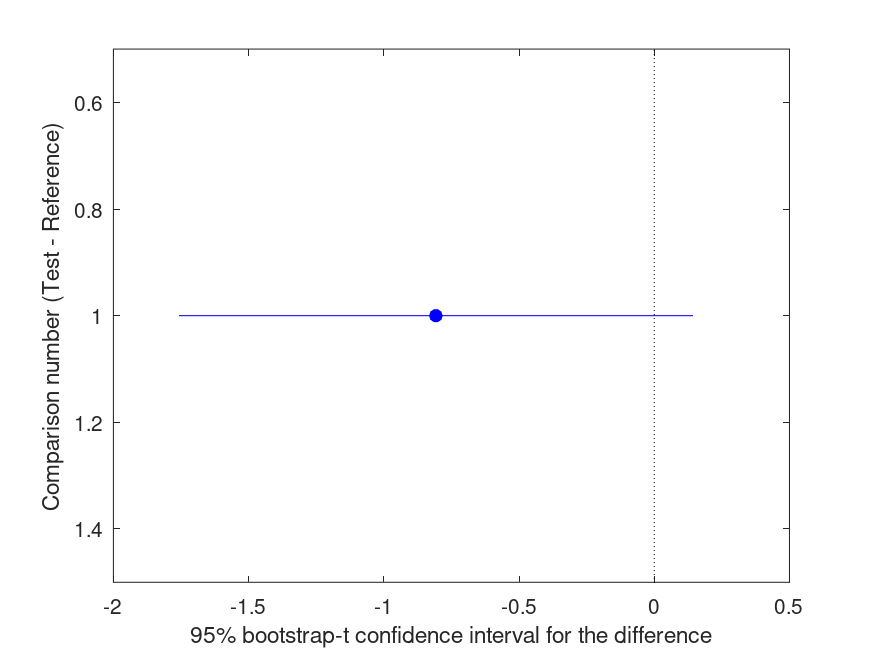
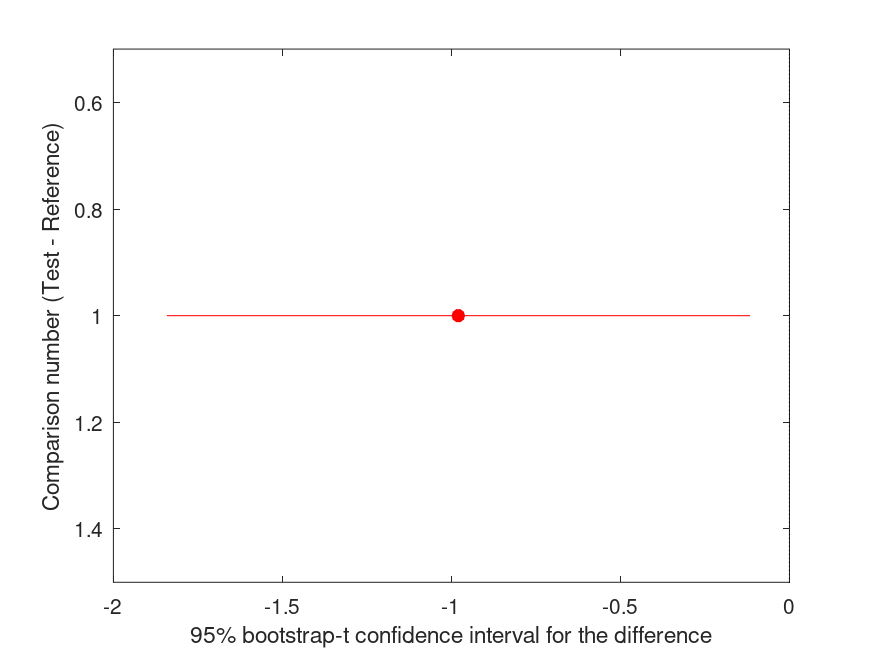
update online manual

diff --git a/docs/function/bootint.html b/docs/function/bootint.html
@@ -20,19 +20,20 @@
 <div id="doccontent">
 
 <h2>bootint</h2>
-<pre> Computes simple percentile confidence interval(s) directly from a vector (or
- row-major matrix) of bootstrap statistics.
+<pre> Computes percentile confidence interval(s) directly from a vector (or row-
+ major matrix) of bootstrap statistics.
 
  -- Function File: CI = bootint (BOOTSTAT)
  -- Function File: CI = bootint (BOOTSTAT, PROB)
+ -- Function File: CI = bootint (BOOTSTAT, PROB, ORIGINAL)
 
-     'CI = bootint (BOOTSTAT)' computes 95% percentile confidence intervals
-     directly from the vector, or rows* of the matrix in BOOTSTAT, where
-     BOOTSTAT contains bootstrap statistics such as those generated using
-     the `bootstrp` function. Depending on the application, bootstrap
-     confidence intervals with better coverage and accuracy can be computed
-     using the various dedicated bootstrap functions from the statistics-
-     resampling package.
+     'CI = bootint (BOOTSTAT)' computes simple 95% percentile confidence
+     intervals [1,2] directly from the vector, or rows* of the matrix in
+     BOOTSTAT, where BOOTSTAT contains bootstrap statistics such as those
+     generated using the `bootstrp` function. Depending on the application,
+     bootstrap confidence intervals with better coverage and accuracy can
+     be computed using the various dedicated bootstrap confidence interval
+     functions from the statistics-resampling package.
 
         * The matrix should have dimensions P * NBOOT, where P corresponds to
           the number of parameter estimates and NBOOT corresponds to the number
@@ -50,7 +51,22 @@
           The default value of PROB is the vector: [0.025, 0.975], for an
           equal-tailed 95% percentile confidence interval.
 
-  bootint (version 2024.04.24)
+     'CI = bootint (BOOTSTAT, PROB, ORIGINAL)' uses the ORIGINAL estimates
+     associated with BOOTSTAT to correct PROB and the resulting confidence
+     intervals (CI) for median bias. The confidence intervals returned in CI
+     therefore become bias-corrected percentile intervals [3,4].
+
+  BIBLIOGRAPHY:
+  [1] Efron (1979) Bootstrap Methods: Another look at the jackknife.
+        Annals Stat. 7,1-26
+  [2] Efron, and Tibshirani (1993) An Introduction to the Bootstrap. 
+        New York, NY: Chapman & Hall
+  [3] Efron (1981) Nonparametric Standard Errors and Confidence Intervals.
+        Can J Stat. 9(2):139-172
+  [4] Efron (1982) The jackknife, the bootstrap, and other resampling plans.
+        SIAM-NSF, CBMS #38
+
+  bootint (version 2024.05.19)
   Author: Andrew Charles Penn
   https://www.researchgate.net/profile/Andrew_Penn/
 
@@ -68,6 +84,35 @@
   You should have received a copy of the GNU General Public License
   along with this program.  If not, see http://www.gnu.org/licenses/
 </pre>
+
+<h3><a name="1">Demonstration 1</a></h3>
+<div class="demo">
+<p>The following code</p>
+<pre class="example">
+
+ % Law school data
+ data = [576, 3.39; 635, 3.30; 558, 2.81; 578, 3.03; 666, 3.44; ...
+         580, 3.07; 555, 3.00; 661, 3.43; 661, 3.36; 605, 3.13; ...
+         653, 3.12; 575, 2.74; 545, 2.76; 572, 2.88; 594, 2.96];
+ x = data(:, 1);
+ y = data(:, 2);
+ r = cor (x, y);
+
+ % 95% confidence interval for the mean 
+ bootstat = bootstrp (4999, @cor, x, y);
+ CI_per  = bootint (bootstat,0.95)    % 95% simple percentile interval
+ CI_cper = bootint (bootstat,0.95,r)  % 95% bias-corrected percentile interval
+
+ % Please be patient, the calculations will be completed soon...</pre>
+<p>Produces the following output</p>
+<pre class="example">CI_per =
+
+      0.45985      0.96204
+
+CI_cper =
+
+      0.41869      0.95609</pre>
+</div>
 
 <p>Package: <a href="../index.html">statistics-resampling</a></p>
 </div>

diff --git a/docs/function/boot.html b/docs/function/boot.html
@@ -118,21 +118,21 @@
 
  Columns 1 through 8:
 
-            3            1            3            1            1            1            3            3
-            3            1            3            2            1            1            2            3
-            3            2            2            2            1            3            2            3
+            2            3            3            2            2            2            1            1
+            3            1            3            1            2            3            2            2
+            2            1            3            3            2            1            2            3
 
  Columns 9 through 16:
 
-            3            1            3            2            2            2            2            3
-            1            2            3            1            2            2            1            1
-            2            1            3            2            3            2            1            3
+            3            1            3            3            2            1            2            2
+            2            1            2            1            2            2            3            3
+            1            2            1            2            3            1            1            1
 
  Columns 17 through 20:
 
-            1            1            2            1
-            3            3            2            2
-            3            1            1            2</pre>
+            3            3            1            1
+            1            1            3            3
+            2            3            3            1</pre>
 </div>
 
 <h3><a name="2">Demonstration 2</a></h3>
@@ -147,21 +147,21 @@
 
  Columns 1 through 8:
 
-            2            3            1            2            1            2            3            1
-            3            1            2            2            1            2            3            1
-            3            3            1            3            1            2            3            3
+            2            3            2            2            3            1            3            1
+            2            1            1            2            3            2            2            1
+            3            3            1            2            3            1            3            1
 
  Columns 9 through 16:
 
-            2            3            1            1            3            3            2            2
-            1            3            1            2            2            3            2            3
-            2            2            1            2            3            1            1            3
+            2            2            1            2            2            3            1            2
+            1            3            3            1            3            3            1            2
+            2            2            3            2            3            1            1            3
 
  Columns 17 through 20:
 
-            1            2            2            2
-            1            1            3            1
-            1            2            3            3</pre>
+            1            2            3            3
+            1            1            1            2
+            3            1            3            2</pre>
 </div>
 
 <h3><a name="3">Demonstration 3</a></h3>

diff --git a/docs/function/boot1way.html b/docs/function/boot1way.html
@@ -529,7 +529,7 @@ Bootstrap settings:
 -----------------------------------------------------------------------------
 | Comparison |     Test # |      Ref # | Difference |          t |        p |
 |------------|------------|------------|------------|------------|----------|
-|          1 |          2 |          1 |    -0.8075 |      -1.78 |     .087 |
+|          1 |          2 |          1 |    -0.9797 |      -2.64 |     .035 |*
 
 -----------------------------------------------------------------------------
 |    GROUP # |                                       GROUP label |        N |
@@ -574,7 +574,7 @@ Bootstrap settings:
 -----------------------------------------------------------------------------
 | Comparison |     Test # |      Ref # | Difference |          t |        p |
 |------------|------------|------------|------------|------------|----------|
-|          1 |          2 |          1 |    -0.5106 |      -0.80 |     .241 |
+|          1 |          2 |          1 |     -1.212 |      -1.15 |     .088 |
 
 -----------------------------------------------------------------------------
 |    GROUP # |                                       GROUP label |        N |

diff --git a/docs/function/bootwild.html b/docs/function/bootwild.html
@@ -180,7 +180,7 @@ Bootstrap settings:
 
 Test Statistics: 
  original     std_err      CI_lower     CI_upper     t-stat      p-val     FPR
- +184.5       +1.243       +181.6       +187.4       +148.       <.001    .010</pre>
+ +184.5       +1.243       +181.7       +187.3       +148.       <.001    .010</pre>
 </div>
 
 <h3><a name="2">Demonstration 2</a></h3>
@@ -218,8 +218,8 @@ Bootstrap settings:
 
 Test Statistics: 
  original     std_err      CI_lower     CI_upper     t-stat      p-val     FPR
- +175.5       +2.502       +169.6       +181.4       +70.1       <.001    .010
- +0.1904      +0.08261     -0.002902    +0.3837      +2.31        .053    .298</pre>
+ +175.5       +2.502       +169.8       +181.2       +70.1       <.001    .010
+ +0.1904      +0.08261     +0.005631    +0.3752      +2.31        .046    .277</pre>
 </div>
 
 <p>Package: <a href="../index.html">statistics-resampling</a></p>

diff --git a/docs/function/bootclust.html b/docs/function/bootclust.html
@@ -376,8 +376,8 @@ Bootstrap settings:
 
 Bootstrap Statistics: 
  original     bias         std_error    CI_lower     CI_upper  
- -0.02393     -0.005070    +0.2148      -0.3921      +0.3147    
- -0.2107      -0.01181     +0.2051      -0.5857      +0.08041</pre>
+ +0.3007      +0.007771    +0.2331      -0.1203      +0.6520    
+ -0.01086     +0.01519     +0.2865      -0.4592      +0.4696</pre>
 </div>
 
 <h3><a name="8">Demonstration 8</a></h3>
@@ -406,8 +406,8 @@ Bootstrap settings:
 
 Bootstrap Statistics: 
  original     bias         std_error    CI_lower     CI_upper  
- +0.2322      -0.04780     +0.2826      -0.2088      +0.7356    
- +0.004256    +0.02352     +0.3034      -0.4945      +0.5023</pre>
+ +0.1979      +0.001085    +0.1415      -0.05864     +0.4100    
+ +0.1593      +0.01669     +0.07158     +0.02569     +0.2652</pre>
 </div>
 
 <h3><a name="9">Demonstration 9</a></h3>

diff --git a/docs/function/bootbayes.html b/docs/function/bootbayes.html
@@ -191,7 +191,7 @@ Bootstrap settings:
 
 Posterior Statistics: 
  original     bias         median       stdev       CI_lower      CI_upper
- +184.5       +0.02607     +184.5       1.325       +181.9        +187.1</pre>
+ +184.5       -0.02316     +184.5       1.349       +181.7        +187.1</pre>
 </div>
 
 <h3><a name="2">Demonstration 2</a></h3>
@@ -228,8 +228,8 @@ Bootstrap settings:
 
 Posterior Statistics: 
  original     bias         median       stdev       CI_lower      CI_upper
- +175.5       -0.1068      +175.4       2.360       +170.5        +179.9    
- +0.1904      +0.002915    +0.1944      0.07831     +0.04770      +0.3512</pre>
+ +175.5       -0.1144      +175.4       2.342       +171.4        +180.4    
+ +0.1904      +0.002996    +0.1936      0.07780     +0.03952      +0.3372</pre>
 </div>
 
 <p>Package: <a href="../index.html">statistics-resampling</a></p>

diff --git a/docs/function/credint.html b/docs/function/credint.html
@@ -74,6 +74,30 @@
   along with this program.  If not, see http://www.gnu.org/licenses/
 </pre>
 
+<h3><a name="1">Demonstration 1</a></h3>
+<div class="demo">
+<p>The following code</p>
+<pre class="example">
+
+ % Input univariate dataset
+ heights = [183, 192, 182, 183, 177, 185, 188, 188, 182, 185].';
+
+ % 95% credible interval for the mean 
+ [stats, bootstat] = bootbayes (heights);
+ CI = credint (bootstat,0.95)           % 95% shortest probability interval
+ CI = credint (bootstat,[0.025,0.975])  % 95% equal-tailed interval
+
+ % Please be patient, the calculations will be completed soon...</pre>
+<p>Produces the following output</p>
+<pre class="example">CI =
+
+       181.92       187.09
+
+CI =
+
+        181.9       187.08</pre>
+</div>
+
 <p>Package: <a href="../index.html">statistics-resampling</a></p>
 </div>
 </body>

diff --git a/docs/function_reference.html b/docs/function_reference.html
@@ -81,7 +81,7 @@
     <div class="ftext"> Computes the empirical cumulative distribution function (ECDF), accounting for  the presence of ties.</div>
 
     <div class="func"><b><a href="function/bootint.html">bootint</a></b></div>
-    <div class="ftext"> Computes simple percentile confidence interval(s) directly from a vector (or  row-major matrix) of bootstrap statistics.</div>
+    <div class="ftext"> Computes percentile confidence interval(s) directly from a vector (or row-  major matrix) of bootstrap statistics.</div>
 
     <div class="func"><b><a href="function/credint.html">credint</a></b></div>
     <div class="ftext"> Computes credible interval(s) directly from a vector (or row-major matrix) of  the posterior(s) obtained by bayesian bootstrap.</div>

diff --git a/docs/function/bootmode.html b/docs/function/bootmode.html
@@ -149,9 +149,9 @@
 <p>Produces the following output</p>
 <pre class="example">ans = Summary of results:
 
-ans = H1 is 1 with p = 0.0005 so reject the null hypothesisthat there is 1 mode
+ans = H1 is 1 with p = 0 so reject the null hypothesisthat there is 1 mode
 
-ans = H2 is 0 with p = 0.334 so accept the null hypothesis that there are 2 modes</pre>
+ans = H2 is 0 with p = 0.326 so accept the null hypothesis that there are 2 modes</pre>
 </div>
 
 <p>Package: <a href="../index.html">statistics-resampling</a></p>

diff --git a/docs/function/bootknife.html b/docs/function/bootknife.html
@@ -442,8 +442,8 @@ Bootstrap settings:
 
 Bootstrap Statistics: 
  original     bias         std_error    CI_lower     CI_upper  
- +0.09963     +0.02100     +0.2600      -0.4205      +0.4600    
- +0.3130      -0.01524     +0.3128      -0.2219      +0.8042</pre>
+ +0.1519      +0.03478     +0.2451      -0.2481      +0.5271    
+ +0.2824      +0.01686     +0.2437      -0.08981     +0.6853</pre>
 </div>
 
 <h3><a name="9">Demonstration 9</a></h3>

diff --git a/docs/function/randtest.html b/docs/function/randtest.html
@@ -146,8 +146,8 @@ stat = 1.2334</pre>
 <p>Produces the following output</p>
 <pre class="example">pval =
 
-      0.54748
-   0.00034059
+      0.52197
+       0.0002
 
 stat =
 
@@ -173,7 +173,7 @@ stat =
  % of standardized x and y values.
  [pval, stat] = randtest (X, Y, 5000, @cor)</pre>
 <p>Produces the following output</p>
-<pre class="example">pval = 0.00039059
+<pre class="example">pval = 0.00079237
 stat = 0.72317</pre>
 </div>
 

diff --git a/docs/function/randtest2.html b/docs/function/randtest2.html
@@ -162,9 +162,9 @@
                            @(A, B) log (var (A) ./ var (B)))
 </pre>
 <p>Produces the following output</p>
-<pre class="example">pval = 0.3594
-pval = 0.2814
-pval = 0.3108</pre>
+<pre class="example">pval = 0.3518
+pval = 0.2802
+pval = 0.3068</pre>
 </div>
 
 <h3><a name="2">Demonstration 2</a></h3>
